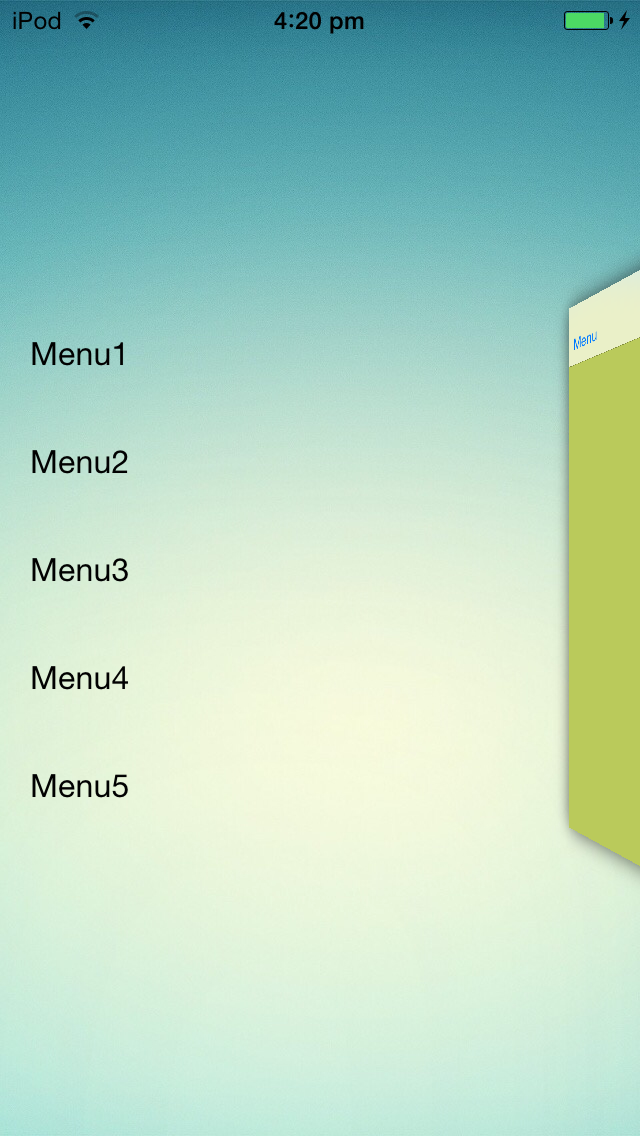
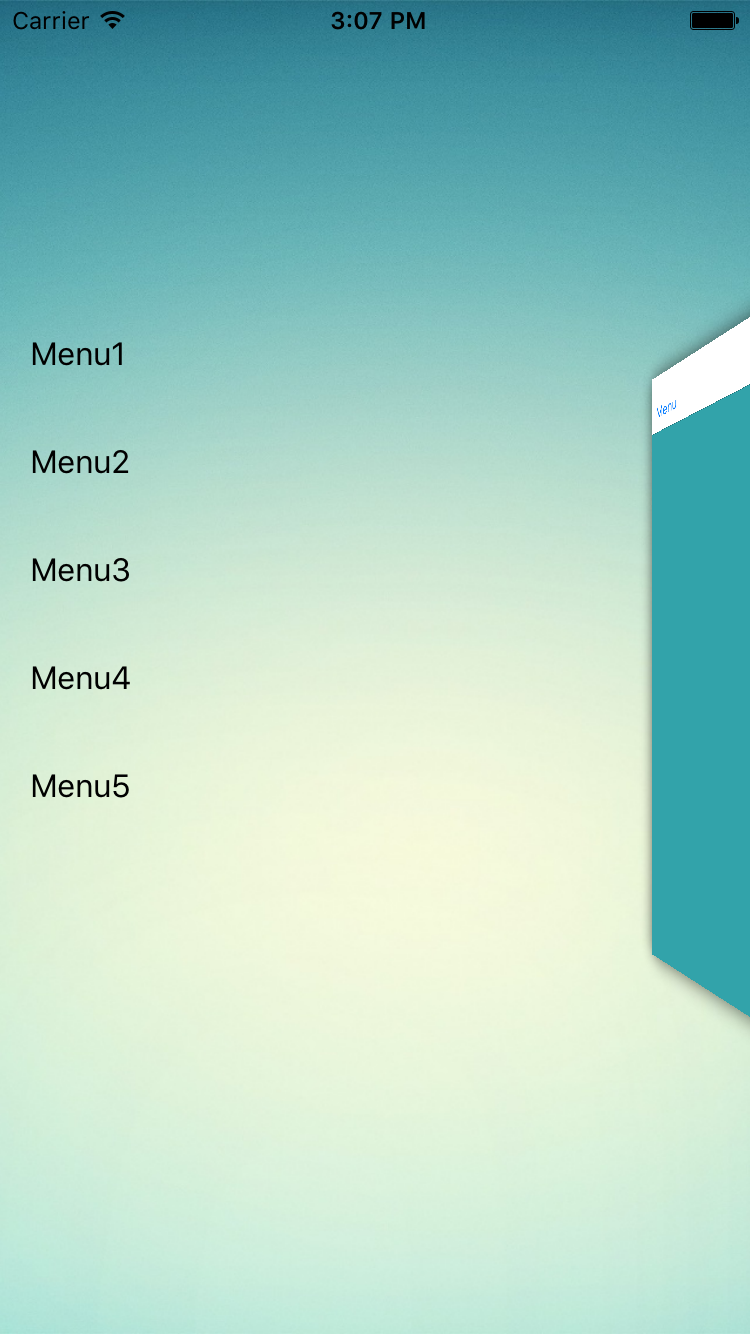
- fixed ios9 issue

diff --git a/Example/Controller/ITRFirstViewController.m b/Example/Controller/ITRFirstViewController.m
@@ -27,6 +27,7 @@
 - (void)viewDidLoad {
     
     [super viewDidLoad];
+    self.navigationController.navigationBar.translucent = NO;
     self.navigationItem.leftBarButtonItem = [[UIBarButtonItem alloc] initWithTitle:@"Menu"
                                                                              style:UIBarButtonItemStylePlain
                                                                             target:self

diff --git a/Example/Controller/ITRSecondViewController.m b/Example/Controller/ITRSecondViewController.m
@@ -27,6 +27,7 @@
 - (void)viewDidLoad {
     
     [super viewDidLoad];
+    self.navigationController.navigationBar.translucent = NO;
     self.navigationItem.leftBarButtonItem = [[UIBarButtonItem alloc] initWithTitle:@"Menu"
                                                                              style:UIBarButtonItemStylePlain
                                                                             target:self
